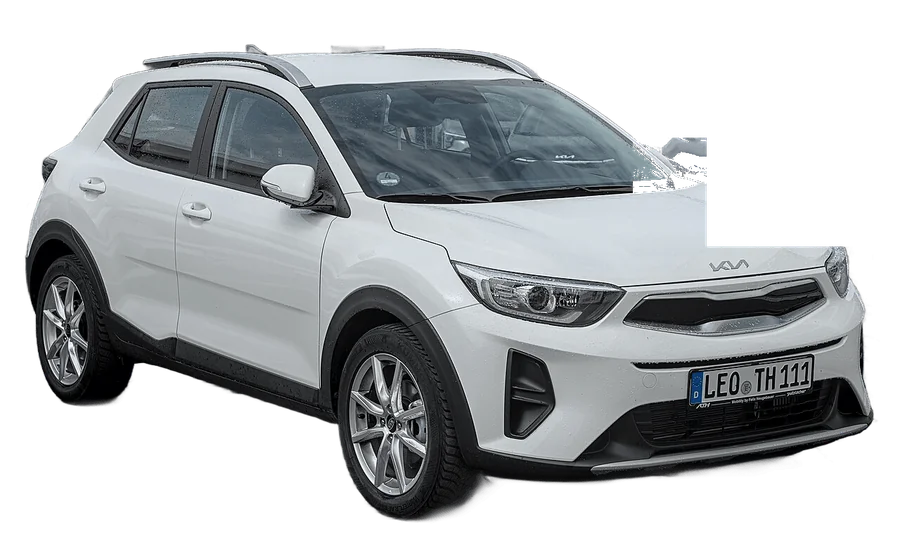
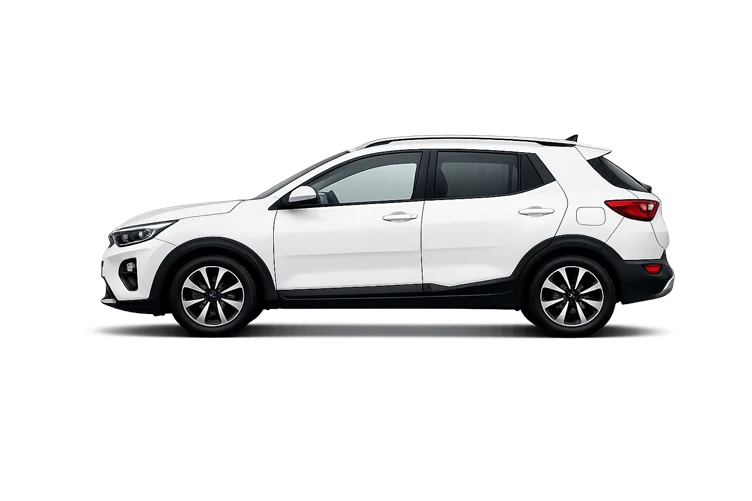
Tarifs dégressifs 5/10/15%, forfait aéroport 50€, nouvelles photos et tunnel affiné
- Remise longue durée : -5% dès 7 j, -10% dès 14 j, -15% dès 28 j (tunnel, flotte, textes)
- +50€ si l'aéroport Pôle Caraïbes est choisi (départ ou retour), visible dans le détail du prix
- Franchise portée à 900€ sur l'offre sans protection
- Agence de livraison Petit-Canal ajoutée
- Agenda : aucune date présélectionnée, aperçu de la plage au survol de la souris
- Réservation : barre de menus rouge remplacée par la barre noire du tunnel
- Nouvelles photos véhicules (WebP détourées) sur fond studio sombre Sixt, DA unifiée sur tout le site
- Email de contact : [email redacted]

diff --git a/src/data/data.ts b/src/data/data.ts
@@ -30,8 +30,27 @@ export interface Vehicle {
   available: boolean;
 }
 
-/** Remise longue durée : -20% à partir de 7 jours de location */
-export const LONG_STAY = { minDays: 7, rate: 0.2 };
+/**
+ * Remises longue durée (appliquées automatiquement) :
+ * -5% dès 7 jours (1 semaine), -10% dès 14 jours (2 semaines), -15% dès 28 jours (1 mois).
+ */
+export const LONG_STAY_TIERS = [
+  { minDays: 28, rate: 0.15 },
+  { minDays: 14, rate: 0.1 },
+  { minDays: 7, rate: 0.05 },
+];
+
+/** Taux de remise longue durée pour une durée donnée (0 si < 7 jours) */
+export function longStayRate(days: number): number {
+  for (const tier of LONG_STAY_TIERS) {
+    if (days >= tier.minDays) return tier.rate;
+  }
+  return 0;
+}
+
+/** Forfait livraison : +50€ si l'aéroport Pôle Caraïbes est choisi (départ ou retour) */
+export const AIRPORT_FEE = 50;
+export const AIRPORT_AGENCE_ID = 'aeroport-pole-caraibes';
 
 /**
  * Haute saison : 20 décembre → 20 avril. Basse saison : le reste de l'année.
@@ -76,7 +95,7 @@ export const vehicles: Vehicle[] = [
     ac: true,
     description: 'Citadine récente (2026) en finition GL Plus, agile et économe. Parfaite pour circuler en ville comme sur les routes côtières de l\'île.',
     seoDescription: 'La Suzuki Swift GL Plus 2026 est la citadine idéale pour un séjour en Guadeloupe : compacte pour se garer facilement à Pointe-à-Pitre ou au Gosier, sobre en carburant pour les allers-retours entre Grande-Terre et Basse-Terre, et suffisamment vive pour les montées vers la route de la Traversée. Sa motorisation hybride légère consomme environ 4,4 l/100 km : sur une semaine de location, la différence se sent à la pompe. À bord : climatisation, caméra de recul et compatibilité Apple CarPlay / Android Auto pour suivre votre itinéraire sans data supplémentaire.',
-    metaDescription: 'Louez une Suzuki Swift GL Plus 2026 en Guadeloupe dès 32€/jour. Citadine hybride économe, clim, CarPlay, kilométrage illimité. -20% dès 7 jours.',
+    metaDescription: 'Louez une Suzuki Swift GL Plus 2026 en Guadeloupe dès 32€/jour. Citadine hybride économe, clim, CarPlay, kilométrage illimité. Jusqu\'à -15% en longue durée.',
     features: ['Climatisation', 'Bluetooth / CarPlay', 'Caméra de recul', 'Kilométrage illimité'],
     techSpecs: [
       { label: 'Motorisation', value: '1.2 Dualjet mild-hybrid, 83 ch' },
@@ -108,7 +127,7 @@ export const vehicles: Vehicle[] = [
     ac: true,
     description: 'L\'iconique citadine italienne en finition Lounge, coloris noir. Compacte, stylée et facile à garer partout en Guadeloupe.',
     seoDescription: 'Notre Fiat 500 Lounge noire (2018) est le meilleur prix de la flotte — et sûrement la voiture la plus facile à vivre de l\'île. Avec ses 3,57 m, elle se gare dans les ruelles de Saint-François ou sur les parkings bondés de la plage de la Caravelle quand les autres renoncent. Son toit panoramique en verre fait entrer la lumière des Antilles à bord, et sa boîte 5 souple pardonne tout dans les embouteillages de Pointe-à-Pitre. Idéale pour un couple qui voyage léger, moins adaptée si vous partez à 4 avec les valises.',
-    metaDescription: 'Fiat 500 Lounge noire à louer en Guadeloupe dès 28€/jour. Toit panoramique, clim, stationnement facile. Le meilleur prix Adventura, -20% dès 7 jours.',
+    metaDescription: 'Fiat 500 Lounge noire à louer en Guadeloupe dès 28€/jour. Toit panoramique, clim, stationnement facile. Le meilleur prix Adventura, jusqu\'à -15% en longue durée.',
     features: ['Climatisation', 'Toit panoramique', 'Bluetooth', 'Kilométrage illimité'],
     techSpecs: [
       { label: 'Motorisation', value: '1.2 8v essence, 69 ch' },
@@ -140,7 +159,7 @@ export const vehicles: Vehicle[] = [
     ac: true,
     description: 'SUV urbain coloris blanc, position de conduite surélevée et grand coffre. Le bon compromis confort / budget pour les familles.',
     seoDescription: 'Le Kia Stonic blanc est le choix des familles et des voyageurs chargés : 352 litres de coffre — deux grosses valises plus les sacs de plage —, une garde au sol surélevée appréciable sur les routes dégradées de la côte sous le vent, et une position de conduite haute qui rassure sur les ronds-points guadeloupéens. Son moteur 1.0 turbo de 100 ch emmène 5 personnes sans forcer, y compris dans les lacets qui montent vers les Chutes du Carbet. Climatisation efficace, CarPlay et régulateur de série.',
-    metaDescription: 'Louez un Kia Stonic (SUV urbain) en Guadeloupe dès 39€/jour. Grand coffre 352L, 5 places, position haute, clim. Idéal familles, -20% dès 7 jours.',
+    metaDescription: 'Louez un Kia Stonic (SUV urbain) en Guadeloupe dès 39€/jour. Grand coffre 352L, 5 places, position haute, clim. Idéal familles, jusqu\'à -15% en longue durée.',
     features: ['Climatisation', 'Bluetooth / CarPlay', 'Régulateur de vitesse', 'Kilométrage illimité'],
     techSpecs: [
       { label: 'Motorisation', value: '1.0 T-GDi turbo, 100 ch' },
@@ -195,7 +214,7 @@ export const blogPosts: BlogPost[] = [
       {
         heading: 'Les vrais prix, saison par saison',
         paragraphs: [
-          "En Guadeloupe, la location suit deux saisons bien distinctes. De mai à novembre (basse saison), une citadine correcte se loue entre 25 et 40€ par jour. Du 20 décembre au 20 avril, la demande explose avec les vols depuis la métropole : comptez 40 à 60€ pour le même véhicule. Chez Adventura, notre Fiat 500 passe par exemple de 28€ à 42€ par jour entre les deux périodes — et nous appliquons automatiquement -20% dès 7 jours de location, toute l'année.",
+          "En Guadeloupe, la location suit deux saisons bien distinctes. De mai à novembre (basse saison), une citadine correcte se loue entre 25 et 40€ par jour. Du 20 décembre au 20 avril, la demande explose avec les vols depuis la métropole : comptez 40 à 60€ pour le même véhicule. Chez Adventura, notre Fiat 500 passe par exemple de 28€ à 42€ par jour entre les deux périodes — et nous appliquons automatiquement une remise longue durée : -5% dès 7 jours, -10% dès 14 jours et -15% dès 28 jours, toute l'année.",
           "Un conseil que peu de gens suivent : si vos dates sont flexibles, décaler votre séjour de fin décembre à mi-janvier ne change presque rien au climat, mais beaucoup à la facture.",
         ],
       },
@@ -307,7 +326,7 @@ export const blogPosts: BlogPost[] = [
       {
         heading: 'Notre grille de décision, en résumé',
         paragraphs: [
-          "Couple + Grande-Terre + budget serré : Fiat 500 Lounge, dès 28€/jour. Couple ou trio + programme mixte : Suzuki Swift, le meilleur équilibre de la flotte. Famille, gros bagages ou logement sur Basse-Terre : Kia Stonic, dès 39€/jour. Et dans tous les cas, à partir de 7 jours de location, la remise de 20% s'applique automatiquement — sur une semaine, elle paie presque deux jours de voiture.",
+          "Couple + Grande-Terre + budget serré : Fiat 500 Lounge, dès 28€/jour. Couple ou trio + programme mixte : Suzuki Swift, le meilleur équilibre de la flotte. Famille, gros bagages ou logement sur Basse-Terre : Kia Stonic, dès 39€/jour. Et dans tous les cas, la remise longue durée s'applique automatiquement : -5% dès 7 jours, -10% dès 14 jours, -15% dès 28 jours.",
         ],
       },
     ],
@@ -316,7 +335,7 @@ export const blogPosts: BlogPost[] = [
     id: 'road-trip-7-jours-guadeloupe',
     title: "Road trip de 7 jours en Guadeloupe : l'itinéraire qu'on conseille à nos clients",
     excerpt: "Jour par jour, l'itinéraire que nous recommandons depuis des années : temps de route réels, bons créneaux pour éviter la foule, et où faire le plein.",
-    metaDescription: "Itinéraire road trip 7 jours en Guadeloupe avec voiture de location : étapes jour par jour, temps de trajet réels, conseils d'un loueur local. -20% dès 7 jours.",
+    metaDescription: "Itinéraire road trip 7 jours en Guadeloupe avec voiture de location : étapes jour par jour, temps de trajet réels, conseils d'un loueur local. Jusqu'à -15% en longue durée.",
     image: 'https://images.unsplash.com/photo-1559827260-dc66d52bef19?w=800&q=80',
     category: 'Itinéraires',
     author: "L'équipe Adventura",
@@ -326,7 +345,7 @@ export const blogPosts: BlogPost[] = [
     content: [
       {
         paragraphs: [
-          "Sept jours, c'est la durée idéale pour un premier séjour : assez pour voir les deux ailes du papillon sans courir, et c'est justement à partir de 7 jours que notre remise de 20% s'applique. Voici l'itinéraire que nous conseillons à nos clients, affiné au fil de leurs retours. Les temps de route sont réels, pas ceux du GPS un jour sans trafic.",
+          "Sept jours, c'est la durée idéale pour un premier séjour : assez pour voir les deux ailes du papillon sans courir, et c'est justement à partir de 7 jours que notre remise longue durée s'applique (-5%, puis -10% dès 14 jours et -15% dès 28 jours). Voici l'itinéraire que nous conseillons à nos clients, affiné au fil de leurs retours. Les temps de route sont réels, pas ceux du GPS un jour sans trafic.",
         ],
       },
       {
@@ -427,6 +446,16 @@ export const agences: Agence[] = [
     lat: 16.2653,
     lng: -61.5321,
     badge: 'Livraison gratuite',
+  },
+  {
+    id: 'petit-canal',
+    name: 'Petit-Canal',
+    address: 'Centre-ville de Petit-Canal, 97131 Petit-Canal',
+    hours: '9h - 18h, Lun - Sam',
+    phone: '[phone redacted]',
+    lat: 16.3767,
+    lng: -61.4933,
+    badge: 'Livraison',
   },
   {
     id: 'pointe-a-pitre',

diff --git a/src/scripts/pickers.ts b/src/scripts/pickers.ts
@@ -40,6 +40,7 @@ interface RangeContext {
   min: string;
   selStart: string | null;
   selEnd: string | null;
+  hoverEnd: string | null;
   viewY: number;
   viewM: number;
 }
@@ -208,6 +209,8 @@ export function setupPickers(rootId: string): void {
       if (rc.selStart && dateStr === rc.selStart) classes.push('is-start');
       if (rc.selEnd && dateStr === rc.selEnd) classes.push('is-end');
       if (rc.selStart && rc.selEnd && dateStr > rc.selStart && dateStr < rc.selEnd) classes.push('in-range');
+      // Aperçu de la plage au survol (avant le clic sur la date de retour)
+      if (rc.selStart && !rc.selEnd && rc.hoverEnd && dateStr > rc.selStart && dateStr <= rc.hoverEnd) classes.push('in-range');
       cells += `<button type="button" class="${classes.join(' ')}" data-day="${dateStr}"${disabled ? ' disabled' : ''}>${d}</button>`;
     }
 
@@ -271,6 +274,24 @@ export function setupPickers(rootId: string): void {
     if (rc.selStart && rc.selEnd) commitRange();
   });
 
+  // Aperçu de la plage quand la souris glisse vers la date de retour (style Sixt)
+  monthsHost?.addEventListener('mouseover', (e) => {
+    if (!rc || !rc.selStart || rc.selEnd) return;
+    const btn = (e.target as HTMLElement).closest<HTMLButtonElement>('[data-day]');
+    if (!btn || btn.disabled) return;
+    const day = btn.getAttribute('data-day')!;
+    if (day !== rc.hoverEnd) {
+      rc.hoverEnd = day;
+      renderRange();
+    }
+  });
+
+  monthsHost?.addEventListener('mouseleave', () => {
+    if (!rc || !rc.hoverEnd) return;
+    rc.hoverEnd = null;
+    renderRange();
+  });
+
   prevBtn?.addEventListener('click', () => {
     if (!rc) return;
     rc.viewM--;
@@ -321,6 +342,7 @@ export function setupPickers(rootId: string): void {
         min,
         selStart,
         selEnd,
+        hoverEnd: null,
         viewY: baseD.getFullYear(),
         viewM: baseD.getMonth(),
       };